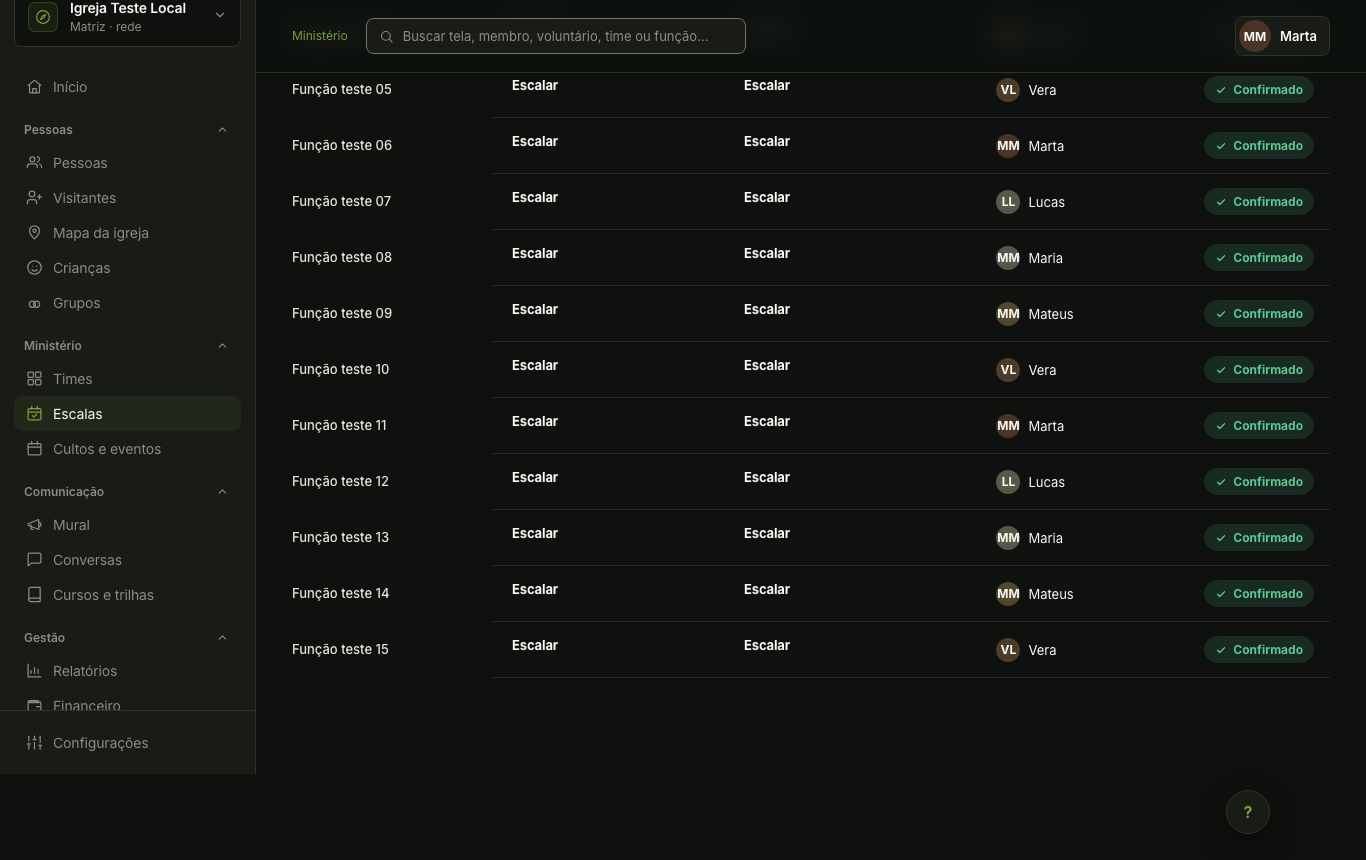
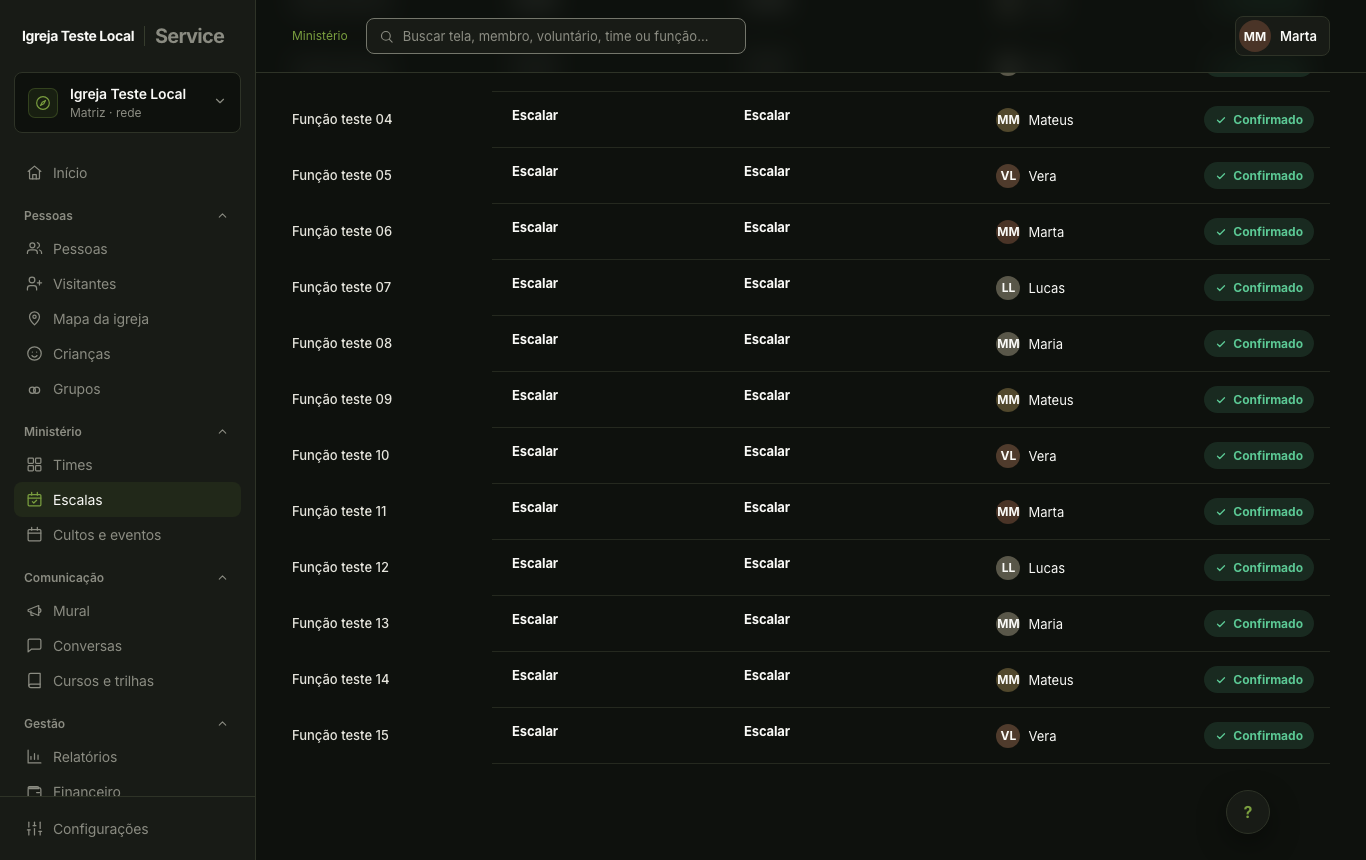
fix: corrigir espaço da ajuda nas telas do painel

diff --git a/app/service/painel/telas/Relatorios.tsx b/app/service/painel/telas/Relatorios.tsx
@@ -202,10 +202,10 @@ export function Relatorios({
   };
   return (
     <div className="content wide">
-      <PageHead title="Relatórios e indicadores" eyebrow="Gestão" help={ct("A saúde da igreja num lugar: crescimento, cobertura de escala e registros de quem serve. Check-ins são lidos por {cultos}; ausência de registro não confirma ausência da pessoa.")} action={<><Segmentado role="group" aria-label="Recorte das comparações">{([[30, "30 dias"], [90, "Trimestre"]] as const).map(([v, l]) => <Opcao key={v} marcada={periodo === v} aria-pressed={v === periodo} onClick={() => setPeriodo(v)}>{l}</Opcao>)}</Segmentado><Botao variante="principal" onClick={baixarRelatorio}>Baixar relatório →</Botao></>} />
+      <PageHead title="Relatórios e indicadores" eyebrow="Gestão" help="A saúde da igreja num lugar. Use 30 dias ou trimestre para comparar. Check-in zero não quer dizer que ninguém veio." action={<><Segmentado role="group" aria-label="Recorte das comparações">{([[30, "30 dias"], [90, "Trimestre"]] as const).map(([v, l]) => <Opcao key={v} marcada={v === periodo} aria-pressed={v === periodo} onClick={() => setPeriodo(v)}>{l}</Opcao>)}</Segmentado><Botao variante="principal" onClick={baixarRelatorio}>Baixar relatório →</Botao></>} />
       <div className="kpi-row"><Indicador icone="visitante" rotulo="Visitantes que viraram membros" valor={retencaoAtual === null ? "Sem dados" : `${retencaoAtual}%`} rodape={foot(retencaoDelta, " pp", retencaoAtual === null ? "nenhum visitante no recorte" : "dos cadastrados no recorte")} /><Indicador icone="escalas" rotulo="Confirmações de escala" valor={coberturaRecente === null ? "Sem dados" : `${coberturaRecente}%`} rodape={foot(coberturaDelta, " pp", coberturaRecente === null ? "nenhuma escala no recorte" : "das vagas escaladas no recorte")} /><Indicador icone="cultos" rotulo="Média de check-ins" valor={freqRecente ?? "Sem dados"} rodape={foot(freqDelta, "", freqRecente === null ? ct("nenhum {culto} no recorte") : ct("por {culto} no recorte"))} /></div>
       {/* v7 I1: Números de base migrados do Início (lei 14). Indicador cartao, cada número abre a lista. Sem duplicar "Membros na rede". */}
-      <div className="section-divide"><span className="num">01</span><span className="label">Números de base</span><HelpDot text={ct("Compare a participação e a cobertura no período escolhido.")} /><span className="line" /></div>
+      <div className="section-divide"><span className="num">01</span><span className="label">Números de base</span><HelpDot text={ct("Quantas pessoas estão registradas, servindo em times e em {grupos} hoje. Cada número abre a lista.")} /><span className="line" /></div>
       <div className="kpi-row">
         {baseNums.map((n) => (
           <Indicador key={n.id} estilo="cartao" icone={n.id === "membros" ? "membros" : n.id === "servindo" ? "escalas" : "grupos"} valor={n.valor} rotulo={ct(n.rotulo)}
@@ -260,7 +260,7 @@ export function Relatorios({
         <Cartao><div className="panel-head"><span className="panel-title"><Icon name="relatorios" size={13} /> Crescimento de membros</span><span className="panel-meta">últimos meses</span></div><div className="panel-body"><div style={{ fontSize: "var(--fs-pn-32)", fontWeight: 700 }}>{members.length}<span style={{ fontSize: "var(--fs-pn-13)", color: "var(--muted)", fontWeight: 500, marginLeft: 8 }}>membros no total</span></div><div style={{ marginTop: 14 }}><Barras rotulo="Membros novos por mês" serie={series} rotulos={serieLabels} /></div></div></Cartao>
         <Cartao><div className="panel-head"><span className="panel-title"><Icon name="visitante" size={13} /> Funil de visitantes</span><Botao variante="texto" onClick={() => setRoute("visitantes")}>Abrir</Botao></div><div className="panel-body flush"><Distribuicao funil max={funnelMax} itens={FUNNEL_STAGES.map((s, i) => ({ id: s.id, rotulo: s.label, valor: funnelCounts[i] }))} /></div></Cartao>
       </div>
-      <div className="section-divide" style={{ marginTop: 28 }}><span className="num">02</span><span className="label">Situação da escala na semana</span><HelpDot text={ct("Acompanhe pausas, recusas e concentração de escalas. Os registros ajudam a orientar conversas sobre a {caminhada} e o cuidado com cada pessoa.")} /><span className="line" /></div>
+      <div className="section-divide" style={{ marginTop: 28 }}><span className="num">02</span><span className="label">Situação da escala na semana</span><HelpDot text="Pausas, recusas e quantidade de escalas registradas na semana. Esses registros não medem bem-estar nem dedicação da pessoa." /><span className="line" /></div>
       <div className="well-sum">{[["saudavel", contar("saudavel"), "Sem pendência registrada"], ["atencao", contar("atencao"), "Uma recusa"], ["sobrecarga", contar("sobrecarga"), "Três ou mais escalas"], ["afastando", contar("afastando"), "Pausa ou duas recusas"]].map(([level, count, label]) => <div className="well-pill" key={level}><div className="n">{count}</div><div className="l"><span className={`well-dot ${level}`} />{label}</div></div>)}</div>
       <Cartao>
         <div className="panel-head"><span className="panel-title"><Icon name="pessoa" size={13} /> Registros para conferir</span><Botao variante="texto" onClick={() => setRoute("pessoas")}>{ct("{Voluntarios}")}</Botao></div>

diff --git a/app/service/HelpSystem.tsx b/app/service/HelpSystem.tsx
@@ -193,7 +193,7 @@ export function Coachmark({ steps, go, onDone, startAt = 0, onStepChange }: { st
 
 /* lugar: "flutuante" (computador, canto de baixo) ou "barra" (celular, na barra
    do topo, para não cobrir o conteúdo; v7 2.11). O CSS mostra um ou outro. */
-export function HelpFab({ onTour, onSetup, lugar = "flutuante", reservarRolagem = false }: { onTour: () => void; onSetup?: () => void; lugar?: "flutuante" | "barra"; reservarRolagem?: boolean }) {
+export function HelpFab({ onTour, onSetup, lugar = "flutuante" }: { onTour: () => void; onSetup?: () => void; lugar?: "flutuante" | "barra" }) {
   const [open, setOpen] = useState(false);
   const ref = useRef<HTMLDivElement>(null);
 
@@ -202,17 +202,6 @@ export function HelpFab({ onTour, onSetup, lugar = "flutuante", reservarRolagem 
     document.addEventListener("mousedown", onClickAway);
     return () => document.removeEventListener("mousedown", onClickAway);
   }, []);
-
-  useEffect(() => {
-    if (!reservarRolagem || lugar === "barra") return;
-    const body = document.body;
-    const anterior = body.style.paddingBottom;
-    const desktop = window.matchMedia("(min-width: 741px)");
-    const sync = () => { body.style.paddingBottom = desktop.matches ? "calc(86px + var(--safe-bottom, 0px))" : anterior; };
-    sync();
-    desktop.addEventListener("change", sync);
-    return () => { desktop.removeEventListener("change", sync); body.style.paddingBottom = anterior; };
-  }, [reservarRolagem, lugar]);
 
   return (
     <div className={`help-fab-wrap ${lugar === "barra" ? "na-barra" : "flutuante"}`} ref={ref}>

diff --git a/app/service/ServiceExactApp.tsx b/app/service/ServiceExactApp.tsx
@@ -962,7 +962,7 @@ export default function ServiceExactApp({
         </div>
       </aside>
 
-      <div className="main">
+      <div className="main help-fab-reserve">
         <header className={`top${buscaAberta ? " search-open" : ""}`}>
           <BotaoIcone className="top-menu" onClick={() => setNavOpen(true)} rotulo="Abrir menu">
             <Icon name="menu" size={18} />
@@ -1204,7 +1204,7 @@ export default function ServiceExactApp({
         </main>
       </div>
 
-      <HelpFab reservarRolagem={route === "relatorios" || route === "escalas"} onTour={abrirTourAjuda} onSetup={podeVerItem("configurar") ? abrirSetupAjuda : undefined} />
+      <HelpFab onTour={abrirTourAjuda} onSetup={podeVerItem("configurar") ? abrirSetupAjuda : undefined} />
       {showTour ? (
         <Coachmark
           steps={tourSteps}

diff --git a/app/service/ui/biblioteca.css b/app/service/ui/biblioteca.css
@@ -75,6 +75,12 @@
 .btn-ghost:focus-visible { outline: 2px solid var(--white); outline-offset: 2px; }
 .btn-ghost:disabled, .btn-ghost[aria-disabled="true"] { background: transparent; color: var(--muted); opacity: 1; }
 
+/* O botão flutuante ocupa a faixa inferior direita. A reserva pertence à coluna
+   do painel, para que o menu lateral acompanhe a altura da página. */
+@media (min-width: 741px) {
+  .main.help-fab-reserve .content { padding-bottom: calc(96px + var(--safe-bottom, 0px)); }
+}
+
 .btn-danger, .m6-btn.danger { background: var(--danger-dim); color: var(--danger); border-color: transparent; }
 
 .m6-link, .panel-link { font-weight: 700; color: var(--olive); }

diff --git a/docs/service-v7/historias/I5-ajuda-menos-repeticao.md b/docs/service-v7/historias/I5-ajuda-menos-repeticao.md
@@ -19,9 +19,9 @@ Fonte: LEVEZA D.
 - `app/service/painel/telas/Formacao.tsx` (cursos)
 - `app/service/modules/escalas/Escalas.tsx`
 - `app/service/HelpSystem.tsx`
-- `app/service/ServiceExactApp.tsx` (prop de reserva de rolagem só em Relatórios e Escalas)
+- `app/service/ServiceExactApp.tsx` (classe da coluna principal com espaço para a ajuda flutuante)
+- `app/service/ui/biblioteca.css`
 - `docs/service-v7/historias/I5-ajuda-menos-repeticao.md`
-- `docs/service-v7/PENDENTES.md`
 - `docs/service-v7/historias/screenshots/I5-*.png`
 
 ## Pronto quando
@@ -34,18 +34,18 @@ Capturas 1366×860. Selo do Next oculto e animações paradas antes de cada foto
 
 | Tela | Antes: ? | Depois: ? | __medir(24) antes | __medir(24) na foto depois | Limite 25 ações/100 palavras | Resultado |
 |---|---:|---:|---|---|---|---|
-| Relatórios | 12 | 4 | 37 ações, 121 palavras, fora | 33 ações, 153 palavras, fora | Acima por 8 ações e 53 palavras | Foto com ambas as ajudas abertas, texto de “cultos” substituído e uma única seta em “Ver panorama completo”. As ajudas não duplicam legenda de cartão. |
+| Relatórios | 12 | 4 | 37 ações, 121 palavras, fora | 23 ações, 137 palavras, fora | Dentro em ações, acima por 37 palavras | Foto refeita no fim real da rolagem: `window.scrollY` 2254 de 2254; cartão “Como o Service está funcionando” inteiro visível, menu lateral inteiro. Ajuda de título e seção 01 mostram o texto solicitado, com `{grupos}` resolvido como “grupos”; seção 02 também foi aberta. |
 | Cursos | 6 | 2 | 35 ações, 98 palavras, fora | 31 ações, 111 palavras, fora | Acima por 6 ações e 11 palavras | Ajuda curta sobre a trilha e aulas; não repete “pessoas cursando agora”. |
-| Escalas | 2 | 2 | 35 ações, 64 palavras, fora | 59 ações, 121 palavras, fora | Acima por 34 ações e 21 palavras | Cenário temporário com 15 funções, um culto no domingo e 15 alocações distribuídas por cinco pessoas locais. No fim da rolagem, o último “Escalar” ficou em x=732, y=630, 70×32. `elementFromPoint(767,646)` retornou o próprio botão `Escalar`; o botão de ajuda ficou abaixo à direita, sem cobrir conteúdo. Espaço final reservado: 86px mais a área segura. |
+| Escalas | 2 | 2 | 35 ações, 64 palavras, fora | 65 ações, 136 palavras, fora | Acima por 40 ações e 36 palavras | Fixture local com 15 funções e 15 escalas distribuídas por cinco pessoas. Fim real: `window.scrollY` 413 de 413; último “Escalar” em x=732, y=716, 70×32, inteiro visível. `elementFromPoint` no centro do “?” retorna o botão flutuante; o botão de escala também recebe o hit no seu centro. Sidebar inteira até Configurações. |
 
-Fotos de antes, abertas: Relatórios `I5-antes-relatorios.png`, MD5 `c40c1e2de70e932237575fc1cd5bbcd4`; Cursos `I5-antes-cursos.png`, MD5 `0329d4056cc0ee62a5150eaf3f1a734e`; Escalas `I5-antes-escalas.png`, MD5 `169775297f519ed20f94da9b5984563e`. Fotos de depois, abertas e descritas: `I5-qa-depois-relatorios-ajudas.png`, MD5 `72ac0fb76f1973258508997092058ef1`; `I5-qa-depois-cursos.png`, MD5 `da1b2c1208c92093c5bf57faee26ca11`; fim de Relatórios `I5-qa-depois-relatorios-fim.png`, MD5 `2f73ed31d7a990bdaf2b9ef559d442fa`; fim de Escalas `I5-qa-depois-escalas-fim.png`, MD5 `f07bf787e1fcca0c05abf0b19f303611`. O Next não aparece nas fotos.
+Fotos de antes, abertas: Relatórios `I5-antes-relatorios.png`, MD5 `c40c1e2de70e932237575fc1cd5bbcd4`; Cursos `I5-antes-cursos.png`, MD5 `0329d4056cc0ee62a5150eaf3f1a734e`; Escalas `I5-antes-escalas.png`, MD5 `169775297f519ed20f94da9b5984563e`. Fotos de depois, abertas e descritas: `I5-qa-depois-cursos.png`, MD5 `da1b2c1208c92093c5bf57faee26ca11`; fim real de Relatórios `I5-qa-depois-relatorios-fim.png`, MD5 `84a9e3470e3887e31e04af8fa79b809c`; fim de Escalas `I5-qa-depois-escalas-fim.png`, MD5 `d531e2d1b970895fe957b5ca0e9d0c72`; ajuda do título `I5-qa-ajuda-relatorios-1.png`, MD5 `f486b53230fa6af889f55596a91e76c3`; seção 01 `I5-qa-ajuda-relatorios-2.png`, MD5 `eb32316bf1b3a54aae281b0cc4091ec2`; seção 02 `I5-qa-ajuda-relatorios-3.png`, MD5 `594c6b76e0e4eb0b3f39bb0583419469`. A seção 02 mostra o texto solicitado e foi medida em 27 ações e 141 palavras, acima por 2 ações e 41 palavras. Nas duas rotas, o centro do “?” em `(1248,812)` retorna o próprio `<button class="help-fab">`; em Escalas, `elementFromPoint(767,732)` retorna o último botão “Escalar”; a sidebar termina no fim da viewport. `window.scrollY` atingiu o máximo nas duas rotas. `document.body` tem `paddingBottom: 0px`; a reserva fica em `.main .content` (96px incluindo área segura), e não no body. O screenshot de Escalas mostra a coluna do domingo sem sobreposição. O Next não aparece nas capturas.
 
-O dado temporário foi removido do banco local. Consulta final: 0 escalas, 0 culto, 0 funções e 0 time com os IDs criados.
+As capturas foram abertas e mostram o último Escalar inteiro ao fim da coluna de domingo, o cartão final de Relatórios por inteiro e a sidebar até Configurações. As capturas foram feitas com o fixture local de 15 funções. Limpeza confirmada em 127.0.0.1:54321: `{"deleted":{"assignments":15,"event":1,"positions":15,"ministry":1},"remaining":{"assignments":0,"event":0,"positions":0,"ministry":0}}`.
 
-Validação técnica: typecheck, ESLint dos arquivos tocados, check de componentes e contraste foram executados após a correção; resultados registrados no fechamento do branch.
+Validação nesta revisão: `npx tsc --noEmit -p .` e ESLint passaram; ESLint reportou 1 warning preexistente em `Relatorios.tsx:76` (`membrosDelta` não usado). `scripts/check-service-componentes.ts`, `scripts/check-theme-contrast.ts` (oito famílias, dois modos) e `scripts/check-service-lei12.ts` passaram. Playwright não iniciou Chromium nesta revisão (`MachPortRendezvousServer ... Permission denied (1100)`); as fotos finais existentes foram abertas e inspecionadas.
 
 ## Notas
 
-A ajuda flutuante mantém sua posição. Em Relatórios e Escalas, o conteúdo ganha espaço final pela prop do HelpFab e só em telas largas; a regra global de posição não muda. A linha I5 foi removida de PENDENTES, mantendo a linha I2.
+A ajuda flutuante mantém sua posição. A coluna de conteúdo recebe reserva inferior em todas as rotas do painel; `document.body` não recebe padding. A linha I5 foi removida de PENDENTES, mantendo a linha I2.
 
 `./node_modules/.bin/tsc --noEmit -p .` passou. ESLint nos quatro arquivos tocados terminou sem erros e com cinco warnings preexistentes de variáveis não usadas em Formacao.tsx e Relatorios.tsx. `npm exec --yes --package=tsx -- tsx scripts/check-service-componentes.ts` passou com `Componentes da biblioteca: ok`; `npm exec --yes --package=tsx -- tsx scripts/check-theme-contrast.ts` passou nas oito famílias e nos dois modos.
